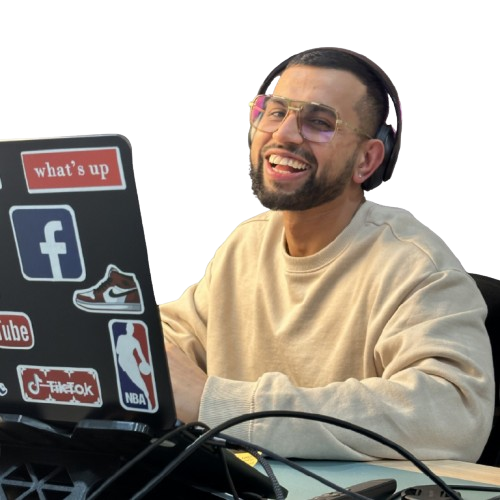
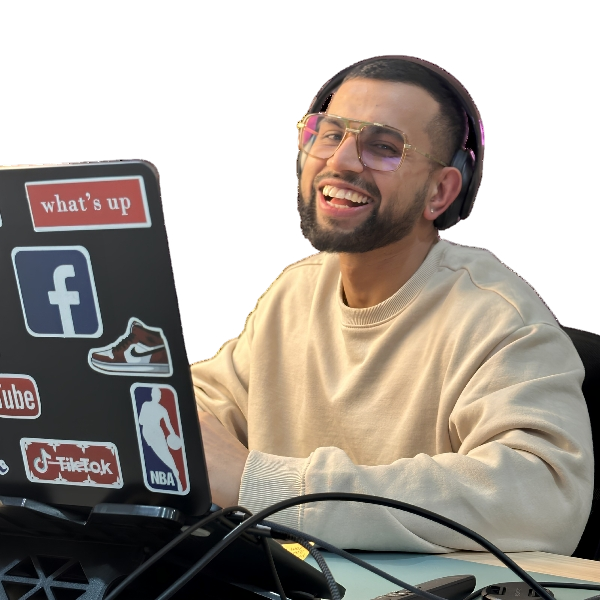
add

diff --git a/src/pages/HomePage.jsx b/src/pages/HomePage.jsx
@@ -97,6 +97,8 @@ function HomePage() {
                   E-commerce strategies, and AI-powered automation.
                 </motion.p>
 
+
+
                 {/* BUTTONS */}
           {/* BUTTONS */}
 <motion.div
@@ -145,7 +147,40 @@ function HomePage() {
                 <p className="text-secondary/80 leading-7 mt-5 text-sm sm:text-base max-w-md">
                   I build modern growth systems combining branding, AI, content strategy, and high-converting e-commerce experiences.
                 </p>
+                                             <motion.div
+  initial={{ opacity: 0, y: 20 }}
+  animate={{ opacity: 1, y: 0 }}
+  transition={{ duration: 1, delay: 1 }}
+  className="mt-5 inline-flex items-center gap-2 flex-wrap"
+>
+  <span className="text-sm sm:text-md text-white/70">
+  I can speak:
+</span>
+
+  <div className="flex flex-wrap gap-2">
+    {["English", "Hindi", "French", "German"].map((lang, i) => (
+      <span
+        key={i}
+        className="
+          text-xs sm:text-sm
+          px-3 py-1
+          rounded-full
+          border border-white/20
+          bg-white/5
+          text-white
+          backdrop-blur-md
+          hover:bg-white/10
+          transition
+        "
+      >
+        {lang}
+      </span>
+    ))}
+  </div>
+</motion.div>
               </motion.div>
+
+ 
 
             </div>
           </div>
@@ -153,91 +188,77 @@ function HomePage() {
       </section>
 
 {/* SERVICES SECTION (PREMIUM MARQUEE) */}
+{/* SERVICES SECTION (PREMIUM MARQUEE) */}
 <div className="w-full relative z-30 -mt-10 overflow-hidden">
-  <div className="
-    w-full
-    bg-black
-    border-t border-white/10
-    border-x border-white/10
-    rounded-b-3xl
-    px-6 sm:px-10 md:px-16
-    py-12
-    shadow-[0_20px_60px_rgba(0,0,0,0.7)]
-  ">
-
+  <div
+    className="
+      w-full
+      bg-black
+      border-t border-white/10
+      border-x border-white/10
+      rounded-b-3xl
+      px-6 sm:px-10 md:px-16
+      py-16   /* 👈 HEIGHT INCREASED (was py-10) */
+      shadow-[0_20px_60px_rgba(0,0,0,0.7)]
+    "
+  >
     <div className="overflow-hidden group">
-
-      <div className="flex gap-20 whitespace-nowrap animate-marquee group-hover:[animation-play-state:paused]">
+      <div className="flex items-center whitespace-nowrap animate-marquee w-max group-hover:[animation-play-state:paused]">
 
         {/* SET 1 */}
-        <div className="flex gap-20 min-w-full">
+        <div className="flex items-center gap-16 pr-16 shrink-0">
 
-          <div>
-            <p className="text-white/60 text-sm">#01</p>
-            <h3 className="mt-2 text-xl md:text-2xl font-semibold text-white">
-              Digital Marketing
-            </h3>
-          </div>
-
-          <div>
-            <p className="text-white/60 text-sm">#02</p>
-            <h3 className="mt-2 text-xl md:text-2xl font-semibold text-white">
-              E-commerce Growth
-            </h3>
-          </div>
-
-          <div>
-            <p className="text-white/60 text-sm">#03</p>
-            <h3 className="mt-2 text-xl md:text-2xl font-semibold text-white">
-              AI Automation
-            </h3>
-          </div>
-
-          <div>
-            <p className="text-white/60 text-sm">#04</p>
-            <h3 className="mt-2 text-xl md:text-2xl font-semibold text-white">
-              Branding Strategy
-            </h3>
-          </div>
+          {[
+            "Digital Marketing",
+            "E-commerce Growth",
+            "AI Automation",
+            "Branding Strategy",
+            "Shopify",
+            "Wordpress",
+            "PPC",
+            "SEO",
+            "AEO",
+            "Automation",
+            "Content Creation",
+            "Personal Branding",
+          ].map((item, i) => (
+            <div key={i}>
+              <h3 className="text-xl md:text-2xl font-semibold text-white tracking-wide">
+                {item}
+              </h3>
+            </div>
+          ))}
 
         </div>
 
-        {/* DUPLICATE FOR LOOP */}
-        <div className="flex gap-20 min-w-full">
+        {/* DUPLICATE FOR SMOOTH LOOP */}
+        <div className="flex items-center gap-16 pr-16 shrink-0">
 
-          <div>
-            <p className="text-white/60 text-sm">#01</p>
-            <h3 className="mt-2 text-xl md:text-2xl font-semibold text-white">
-              Digital Marketing
-            </h3>
-          </div>
-
-          <div>
-            <p className="text-white/60 text-sm">#02</p>
-            <h3 className="mt-2 text-xl md:text-2xl font-semibold text-white">
-              E-commerce Growth
-            </h3>
-          </div>
-
-          <div>
-            <p className="text-white/60 text-sm">#03</p>
-            <h3 className="mt-2 text-xl md:text-2xl font-semibold text-white">
-              AI Automation
-            </h3>
-          </div>
-
-          <div>
-            <p className="text-white/60 text-sm">#04</p>
-            <h3 className="mt-2 text-xl md:text-2xl font-semibold text-white">
-              Branding Strategy
-            </h3>
-          </div>
+          {[
+            "Digital Marketing",
+            "E-commerce Growth",
+            "AI Automation",
+            "Branding Strategy",
+            "Shopify",
+            "Wordpress",
+            "PPC",
+            "SEO",
+            "AEO",
+            "Automation",
+            "Content Creation",
+            "Personal Branding",
+          ].map((item, i) => (
+            <div key={i}>
+              <h3 className="text-xl md:text-2xl font-semibold text-white tracking-wide">
+                {item}
+              </h3>
+            </div>
+          ))}
 
         </div>
 
       </div>
     </div>
-
   </div>
 </div>
       {/* OTHER SECTIONS */}